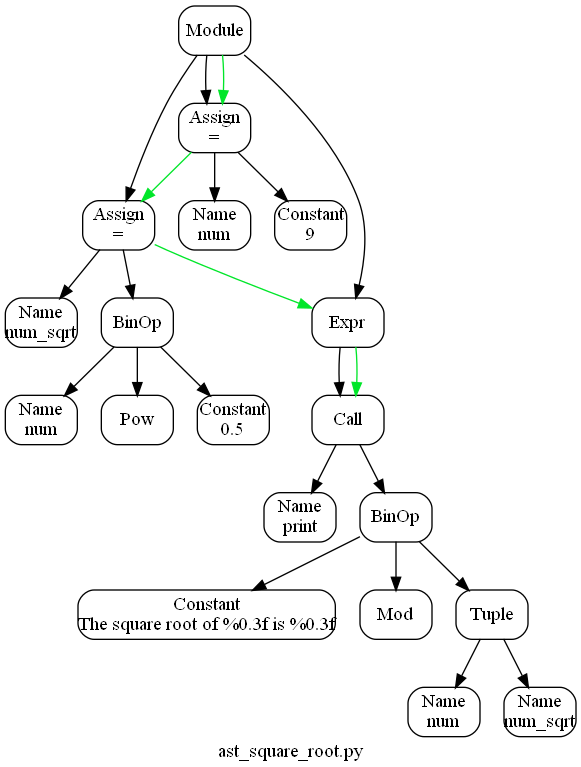
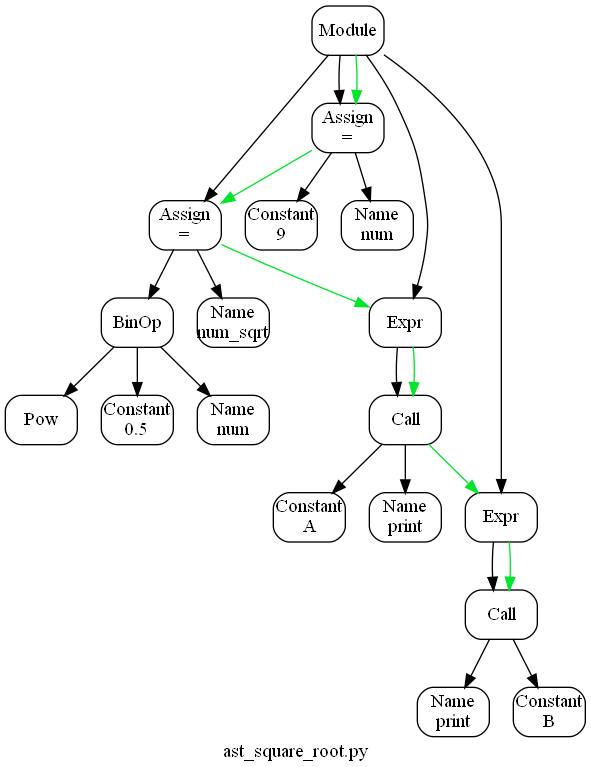
Created CFG extraction based on AST for: for,while,if,seq
Dumped old function and created new one

diff --git a/main/main.py b/main/main.py
@@ -1,5 +1,6 @@
 import ast
 import os
+import sys
 from typing import Callable
 
 import pygraphviz as pgv
@@ -17,7 +18,6 @@ def node_str_generator(ast_node):
     elif isinstance(ast_node, ast.Assign):
         label = "Assign\\n="
         attribute_dict["label"] = label
-        # attribute_dict["shape"] = "underline"
         return label + str(ast_node), attribute_dict
     elif isinstance(ast_node, ast.Name):
         attributes = ast_node.__dict__
@@ -60,25 +60,136 @@ def node_traversal(nd):
                 node_traversal(value)
 
 
-# Filter list by given function f
-def filter_list(l, f=lambda x: bool(x)):
-    return [i for i, x in enumerate(l) if f(x)]
+def get_exit_nodes_EXPR(nd: ast.Expr):
+    attr_edges_dict = {'color': '#00e629'}
+    child = nd.__dict__['value']
+    edge_list_cfg.append(((nd, child), attr_edges_dict))
+    return [child]
 
 
+def get_exit_nodes_IF(nd: ast.If):
+    exit_nodes = []
+    attr_edges_dict = {'color': '#00e629'}
+
+    test = nd.__dict__['test']
+    edge_list_cfg.append(((nd, test), attr_edges_dict))
+
+    body = nd.__dict__['body']
+    lst = create_CFG(body)
+    if isinstance(lst, list):
+        exit_nodes = lst
+    attr_edges_dict = dict()
+    attr_edges_dict['color'] = '#00e629'
+    attr_edges_dict['label'] = 'T'
+    edge_list_cfg.append(((test, body[0]), attr_edges_dict))
+
+    orelse = nd.__dict__['orelse']
+    if len(orelse) > 0:
+        attr_edges_dict = dict()
+        attr_edges_dict['label'] = 'F'
+        attr_edges_dict['color'] = '#ff0039'
+        edge_list_cfg.append(((test, orelse[0]), attr_edges_dict))
+        lst = create_CFG(orelse)
+        if isinstance(lst, list):
+            exit_nodes = exit_nodes + lst
+    return exit_nodes
+
+
+def get_exit_nodes_WHILE(nd: ast.While or ast.For):
+    exit_nodes = []
+    attr_edges_dict = {'color': '#00e629'}
+
+    body = nd.__dict__['body']
+    edge_list_cfg.append(((nd, body[0]), attr_edges_dict))
+    lst = create_CFG(body)
+    if isinstance(lst, list):
+        exit_nodes = lst
+    for exit_node in exit_nodes:
+        if isinstance(exit_node, ast.Break):
+            continue
+        else:
+            edge_list_cfg.append(((exit_node, nd), attr_edges_dict.copy()))
+    return exit_nodes
+
+
+def create_CFG(body: list):
+    for i in range(0, len(body)):
+        attr_edges_dict = {'color': '#00e629'}
+        nd_curr = body[i]
+        if isinstance(nd_curr, ast.Assign) or isinstance(nd_curr, ast.AnnAssign) or isinstance(nd_curr, ast.AugAssign):
+            if i == len(body) - 1:
+                return [body[i]]
+            else:
+                edge_list_cfg.append(((nd_curr, body[i + 1]), attr_edges_dict))
+        elif isinstance(nd_curr, ast.Expr):
+            exit_nodes = get_exit_nodes_EXPR(nd_curr)
+            if i == len(body)-1:
+                return exit_nodes
+            else:
+                for exit_node in exit_nodes:
+                    edge_list_cfg.append(((exit_node, body[i + 1]), attr_edges_dict))
+        elif isinstance(nd_curr, ast.If):
+            exit_nodes = get_exit_nodes_IF(nd_curr)
+            if i == len(body)-1:
+                return exit_nodes
+            else:
+                break_nodes = []
+                for exit_node in exit_nodes:
+                    if not isinstance(exit_node, ast.Break):
+                        if isinstance(exit_node, ast.Continue):
+                            break_nodes.append(exit_node)
+                        else:
+                            edge_list_cfg.append(((exit_node, body[i+1]), attr_edges_dict))
+                    else:
+                        break_nodes.append(exit_node)
+                if len(break_nodes) > 0:
+                    return break_nodes
+        elif isinstance(nd_curr, ast.While) or isinstance(nd_curr, ast.For):
+            exit_nodes = get_exit_nodes_WHILE(nd_curr)
+            if i == len(body) - 1:
+                return exit_nodes
+            else:
+                for exit_node in exit_nodes:
+                    edge_list_cfg.append(((exit_node, body[i+1]), attr_edges_dict))
+                attr_edges_dict = attr_edges_dict.copy()
+                attr_edges_dict['label'] = 'skip'
+                attr_edges_dict['color'] = '#ff0039'
+                edge_list_cfg.append(((nd_curr, body[i+1]), attr_edges_dict))
+        elif isinstance(nd_curr, ast.Break):
+            return [nd_curr]
+        elif isinstance(nd_curr, ast.Continue):
+            return [nd_curr]
+
+
+def extract_CFG(nd: ast.AST):
+    attr_edges_dict = {'color': '#00e629'}
+    if isinstance(nd, ast.Module):
+        body = nd.__dict__['body']
+        if len(body) > 0:
+            edge_list_cfg.append(((nd, body[0]), attr_edges_dict.copy()))
+            lst = create_CFG(body)
+        else:
+            print('Empty file')
+    else:
+        print('No module found')
+
+
+# Deprecated
 # Extract the edges based on the root node for the CFG
 def extract_control_flow(nd: ast.AST, neighbors: list, ref_nodes: list):
     attr_edges_dict = {'color': '#00e629'}
-    if len(ref_nodes) > 0 and len(neighbors) == 0 and not isinstance(nd, ast.If or ast.While or ast.For):
+    if len(ref_nodes) > 0 and len(neighbors) == 0 and not isinstance(nd, ast.If or ast.While or ast.For) \
+            and not isinstance(nd, ast.Expr):
         nd_curr = ref_nodes.pop(0)
         edge_list_cfg.append(((nd, nd_curr), attr_edges_dict))
-        nd = nd_curr
+        extract_control_flow(nd_curr, ref_nodes.copy(), [])
     if isinstance(nd, ast.Module):
         children = nd.__dict__['body']
         child = children.pop(0)
         edge_list_cfg.append(((nd, child), attr_edges_dict))
         extract_control_flow(child, children, ref_nodes)
     elif isinstance(nd, ast.Assign or ast.AnnAssign or ast.AugAssign):
-        if not len(neighbors) == 0:
+        if len(neighbors) > 0:
             neighbor = neighbors.pop(0)
             edge_list_cfg.append(((nd, neighbor), attr_edges_dict))
             extract_control_flow(neighbor, neighbors, ref_nodes)
@@ -93,24 +204,32 @@ def extract_control_flow(nd: ast.AST, neighbors: list, ref_nodes: list):
         attr_edges_dict['label'] = 'T'
         edge_list_cfg.append(((test, nd_curr), attr_edges_dict))
         if len(neighbors) > 0:
-            ref_nodes.insert(0, neighbors.pop(0))
+            ref_nodes = neighbors + ref_nodes
         extract_control_flow(nd_curr, body, ref_nodes.copy())
 
         orelse = nd.__dict__['orelse']
         if len(orelse) > 0:
+            if len(ref_nodes) > 0:
+                attr_edges_dict = dict()
+                attr_edges_dict['color'] = '#00e629'
+                edge_list_cfg.append(((orelse[-1], ref_nodes.pop(0)), attr_edges_dict))
             nd_curr = orelse.pop(0)
             attr_edges_dict = dict()
             attr_edges_dict['label'] = 'F'
             attr_edges_dict['color'] = '#ff0039'
             edge_list_cfg.append(((test, nd_curr), attr_edges_dict))
             # if len(neighbors) > 0:
-            #    ref_nodes.insert(0, neighbors.pop(0))
-            extract_control_flow(nd_curr, orelse, ref_nodes.copy())
+            #     ref_nodes.insert(0, neighbors.pop(0))
+            extract_control_flow(nd_curr, orelse, [])
     elif isinstance(nd, ast.Expr):
-        # TODO: Bug over here
         child = nd.__dict__['value']
+        if len(neighbors) > 0:
+            ref_nodes = neighbors + ref_nodes
         edge_list_cfg.append(((nd, child), attr_edges_dict))
         extract_control_flow(child, neighbors, ref_nodes.copy())
+    elif isinstance(nd, ast.Call):
+        # no need to do anything for now
+        return
     elif isinstance(nd, ast.While):
         neighbor = neighbors.pop(0)
         body = nd.__dict__['body']
@@ -136,44 +255,49 @@ for index, file in enumerate(files):
     # Index, Name, Bytes
     print(index, file, os.path.getsize(root + file))
 
-# TODO: file index user input
-file_in_use = files[1]
-# File which is later read
-file = os.open(root + file_in_use, os.O_RDONLY)
-num_bytes = os.path.getsize(root + file_in_use)
+# TODO: file index
+for file_index in range(0, len(files)):
+    file_in_use = files[int(file_index)]
+    # file_in_use = files[0]
 
-# File as byte string
-byte_str = os.read(file, num_bytes).decode("UTF-8")
-print("\n" + Back.LIGHTBLACK_EX + Fore.RED + "Program code currently in use for AST:" + Style.RESET_ALL)
-print(byte_str)
+    # File which is later read
+    file = os.open(root + file_in_use, os.O_RDONLY)
+    num_bytes = os.path.getsize(root + file_in_use)
 
-# Parse AST and traverse the tree by going over every node from source/root
-ast_tree = ast.parse(source=byte_str)
-node_traversal(ast_tree)
+    # File as byte string
+    byte_str = os.read(file, num_bytes).decode("UTF-8")
+    print("\n" + Back.LIGHTBLACK_EX + Fore.RED + "Program code currently in use for AST:" + Style.RESET_ALL)
+    print(byte_str)
 
-# Clean node and edge list
+    # Parse AST and traverse the tree by going over every node from source/root
+    ast_tree = ast.parse(source=byte_str)
+    node_traversal(ast_tree)
 
+    # Clean node and edge list
 
-# Create graph from edge list and nodelist using the dot-layout
-G = pgv.AGraph(strict=False, directed=True, label="ast_" + file_in_use)
-# Set some default attributes
-G.node_attr["shape"] = "Mrecord"
-G.graph_attr["rank"] = "same"
+    # Create graph from edge list and nodelist using the dot-layout
+    G = pgv.AGraph(strict=False, directed=True, label="ast_" + file_in_use)
+    # Set some default attributes
+    G.node_attr["shape"] = "Mrecord"
+    G.graph_attr["rank"] = "same"
 
-# Add edges and nodes with labels
-for (node, attr_dict) in node_list:
-    G.add_node(node, **attr_dict)
-G.add_edges_from(edge_list)
+    # Add edges and nodes with labels
+    for (node, attr_dict) in node_list:
+        G.add_node(node, **attr_dict)
+    G.add_edges_from(edge_list)
 
-# TODO extract control flow graph
-extract_control_flow(ast_tree, [], [])
-for ((x, y), attr) in edge_list_cfg:
-    G.add_edge(node_str_generator(x)[0], node_str_generator(y)[0], **attr)
-G.layout(prog='dot')
+    extract_CFG(ast_tree)
 
+    for ((x, y), attr) in edge_list_cfg:
+        G.add_edge(node_str_generator(x)[0], node_str_generator(y)[0], **attr)
+    G.layout(prog='dot')
 
-G.draw('ast_' + file_in_use + '.png')
+    G.draw('ast_' + file_in_use + '.png')
+    del G
+    edge_list.clear()
+    edge_list_cfg.clear()
+    node_list.clear()
 
-# Close file reader
-os.close(file)
+    # Close file reader
+    os.close(file)
 quit("EOF")

diff --git a/code_samples/bugy.py b/code_samples/bugy.py
@@ -1,0 +1,12 @@
+b = [1, 2]
+for a in b:
+     if a > 5:
+        if True:
+            x = 0
+            print('val')
+            continue
+            x = 5
+        else:
+            break
+        x = 780
+f = 5

diff --git a/code_samples/square_root.py b/code_samples/square_root.py
@@ -1,3 +1,4 @@
 num = 9
 num_sqrt = num ** 0.5
-print('The square root of %0.3f is %0.3f' % (num, num_sqrt))
+print('A')
+print('B')
